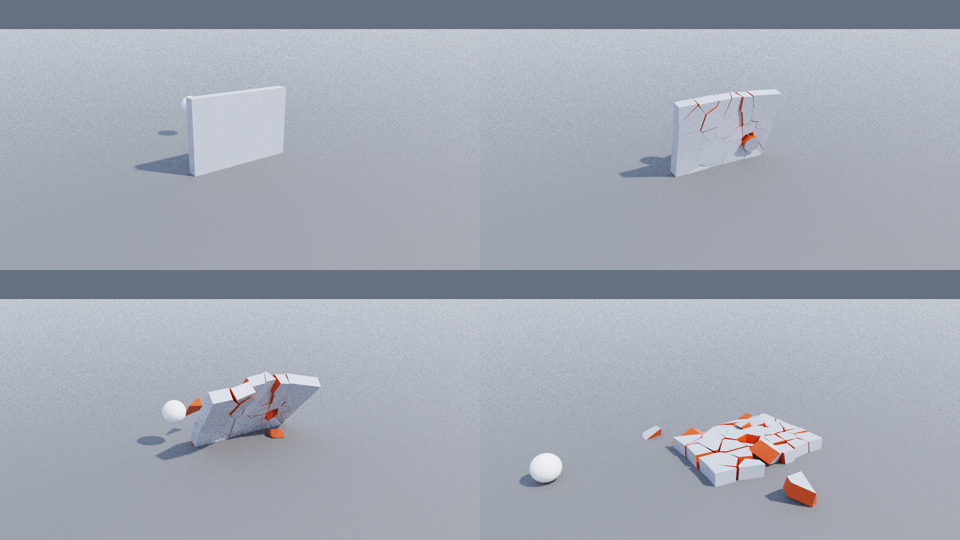
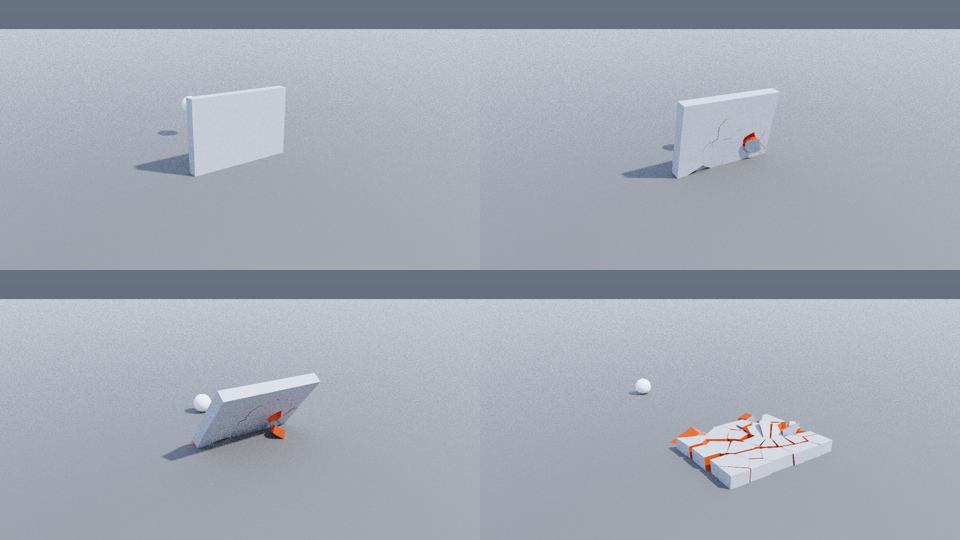
RBD: pick the face a point crossed, not the nearest; fix NSIS paths
- Contacts now use the hull face a penetrating point entered through
  (from its relative motion over the substep), so thin pieces no longer
  push intruders further inside
- Projectile test uses a 40 m/s impact, which breaks the block for every
  seed tried (25 m/s only slides the 2 t block, correctly)
- makensis gets absolute paths (it resolves relative ones from the script)

Claude-Session: https://claude.ai/code/session_01MovpvJC9dTbRUd6J4uubcx

diff --git a/tests/test_core.cpp b/tests/test_core.cpp
@@ -1137,7 +1137,7 @@ TEST(rbd_solver) {
     r2->geometry().bounds(mn, mx);
     CHECK(mn.y > -0.01f);
 
-    // a fast projectile (v attribute) breaks the glued block apart
+    // a fast projectile (v attribute) breaks the glued block apart (at 40 m/s it breaks for every seed tried)
     r2->parm("glue")->val[0] = 1; r2->touch();
     Node* ball = g2.createNode("sphere");
     ball->parm("rad")->val[0] = ball->parm("rad")->val[1] = ball->parm("rad")->val[2] = 0.25f;
@@ -1145,7 +1145,7 @@ TEST(rbd_solver) {
     Node* vel = g2.createNode("attribcreate");
     vel->parm("name")->str = "v";
     vel->parm("type")->val[0] = 1;
-    vel->parm("value")->val[0] = 25;
+    vel->parm("value")->val[0] = 40;
     g2.connect(ball, vel, 0);
     Node* mg = g2.createNode("merge");
     g2.connect(fr, mg, 0);
@@ -1162,7 +1162,7 @@ TEST(rbd_solver) {
     size_t nfr = fr->geometry().numPoints();
     for (size_t i = 0; i < nfr && i < out.numPoints(); ++i) moveBy[pp ? int(pp->getF(i)) : 0] = std::max(moveBy[pp ? int(pp->getF(i)) : 0], double(length(out.P[i] - mg->geometry().P[i])));
     for (auto& [k, m] : moveBy) moved += m > 0.1;
-    CHECK(moved >= 2);
+    CHECK(moved >= 6);
     // nothing tunnels through the ground
     out.bounds(mn, mx);
     CHECK(mn.y > -0.05f);

diff --git a/src/core/Destruction.cpp b/src/core/Destruction.cpp
@@ -389,12 +389,17 @@ bool substep(const RbdState& st, SimFrame& fr, const SimParams& sp, std::vector<
                 const Piece& PX = st.pieces[size_t(X)];
                 const Piece& PY = st.pieces[size_t(Y)];
                 Mat3 RYt = WY.R.transposed();
+                const Body& BX = bodies[size_t(WX.body)];
+                const Body& BY = bodies[size_t(WY.body)];
                 auto sample = [&](const Vec3& hv) {
                     Vec3 x = WX.pos + WX.R * hv;
                     Vec3 lp = RYt * (x - WY.pos);
                     if (dot(lp, lp) > PY.radius * PY.radius) return;
+                    // where this point was relative to Y one substep ago, to find the face it came through
+                    Vec3 vrel = (BX.sleeping ? Vec3(0) : BX.v + cross(BX.w, x - BX.x)) - (BY.sleeping ? Vec3(0) : BY.v + cross(BY.w, x - BY.x));
+                    Vec3 lprev = RYt * (x - vrel * sp.dt - WY.pos);
                     int pl = -1;
-                    float dist = PY.hull.distance(lp, &pl);
+                    float dist = PY.hull.distanceFrom(lp, lprev, &pl);
                     if (dist >= 0 || pl < 0) return;
                     Vec3 nY = WY.R * PY.hull.planes[size_t(pl)].n; // outward of Y
                     Contact c{};

diff --git a/src/core/Fracture.cpp b/src/core/Fracture.cpp
@@ -54,6 +54,27 @@ float ConvexHull::distance(const Vec3& p, int* plane) const {
     return best;
 }
 
+float ConvexHull::distanceFrom(const Vec3& p, const Vec3& prev, int* plane) const {
+    int nearest = -1;
+    float d = distance(p, &nearest);
+    if (plane) *plane = nearest;
+    if (d >= 0) return d;
+    // among the faces prev was in front of, take the one the segment crossed last (largest entry time)
+    float bestT = -1;
+    int bi = -1;
+    for (size_t i = 0; i < planes.size(); ++i) {
+        float a = dot(planes[i].n, prev) - planes[i].d, b = dot(planes[i].n, p) - planes[i].d;
+        if (a <= 0 || b >= 0) continue;
+        float t = a / (a - b);
+        if (t > bestT) { bestT = t; bi = int(i); }
+    }
+    if (bi >= 0) {
+        if (plane) *plane = bi;
+        return dot(planes[size_t(bi)].n, p) - planes[size_t(bi)].d;
+    }
+    return d;
+}
+
 namespace {
 
 bool hullOnce(const std::vector<Vec3>& in, ConvexHull& out, double scale, bool& degenerate, Vec3& flatNormal, int& flatKind) {

diff --git a/src/core/Fracture.h b/src/core/Fracture.h
@@ -16,6 +16,9 @@ struct ConvexHull {
     bool valid() const { return tris.size() >= 12; }
     // Signed distance (positive outside) and the face plane that achieves it.
     float distance(const Vec3& p, int* plane = nullptr) const;
+    // Like distance(), but when p is inside, the reported plane is the face the point crossed coming
+    // from prev (the deepest plane prev was outside of), not merely the nearest face.
+    float distanceFrom(const Vec3& p, const Vec3& prev, int* plane) const;
 };
 
 // Builds the hull. Flat or collinear inputs are thickened by `minThickness`
